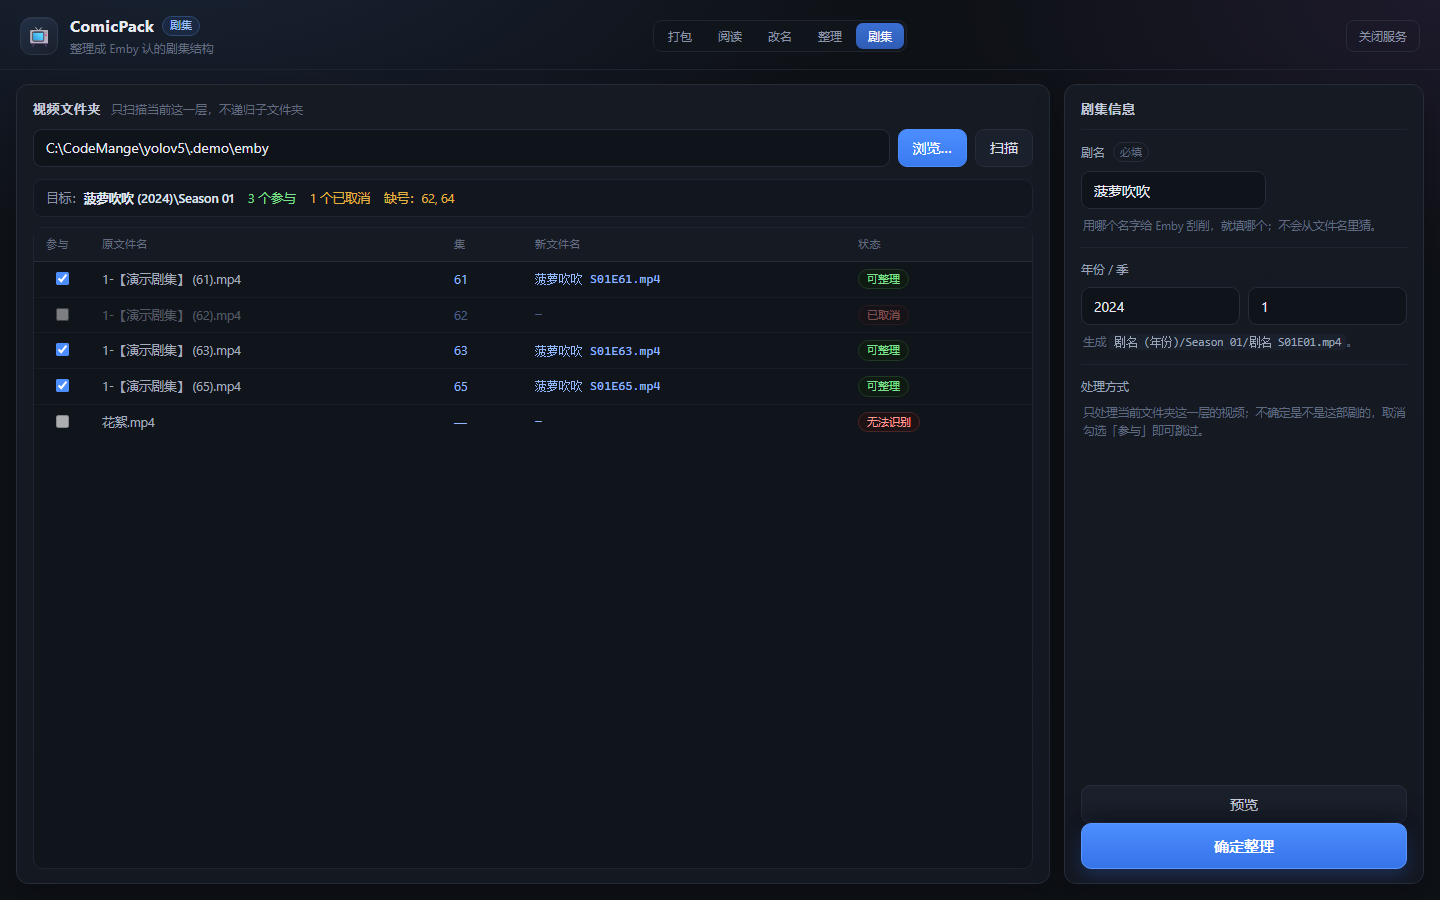
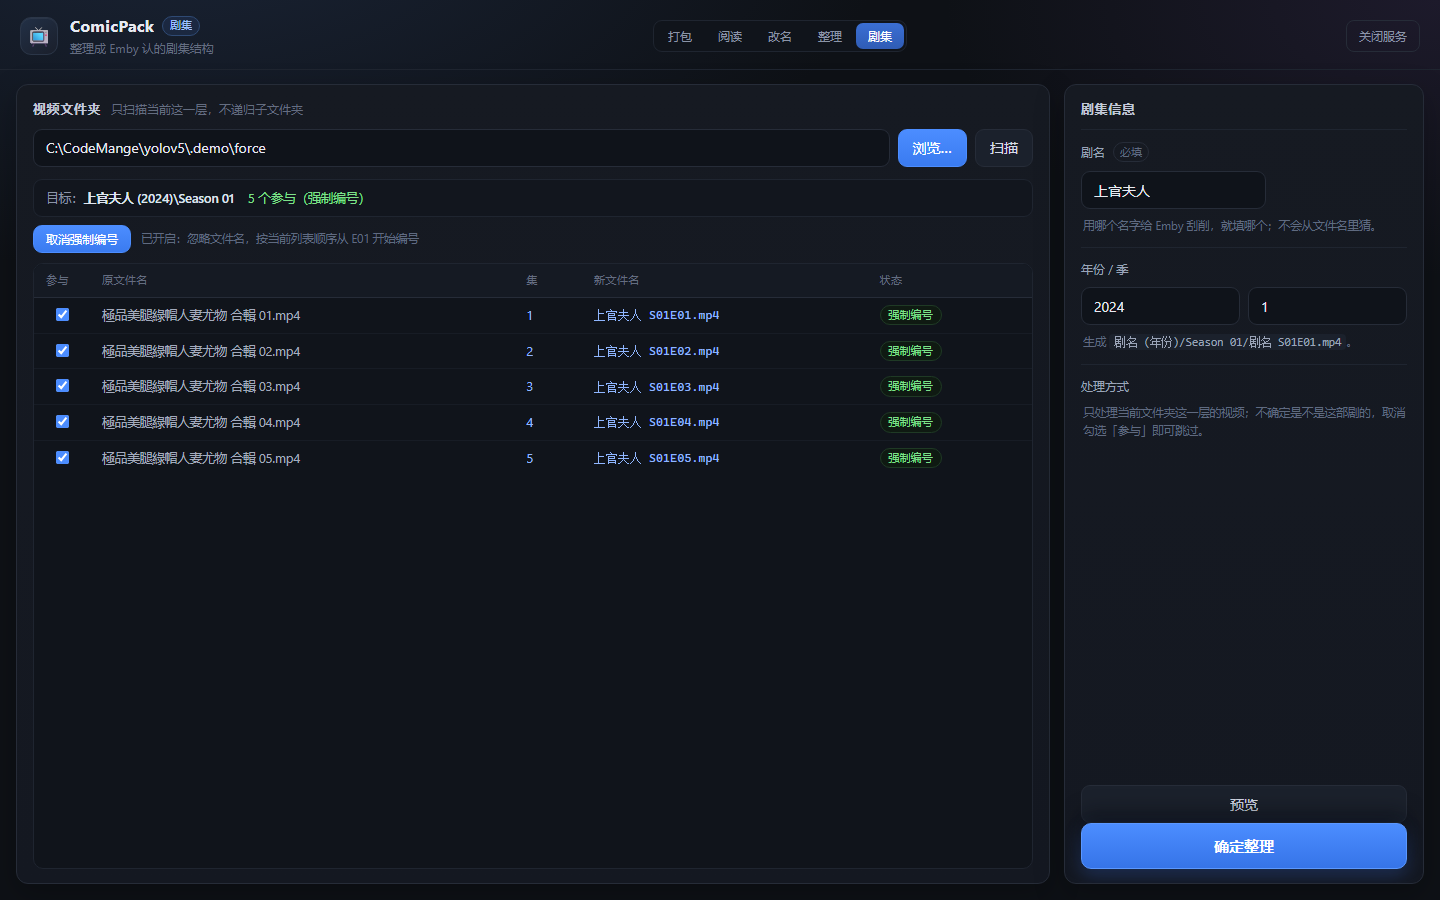
Emby page: force numbering by list order when the default rules fail
- emby.build accepts plan.force: every non-excluded row is included and gets
  SxxE01.. in the current (natural-sorted) order, ignoring parsed episode
  numbers; exclusion still applies and compacts the numbering
- /emby gains a "全选并强制编号" toggle: it selects all rows (including the
  ones whose names can't be parsed), enables their checkboxes and shows
  "将按顺序编号"; clicking again turns it off
- preview/apply carry the force flag, and the table's episode column shows the
  forced numbers; missing-number detection is skipped in force mode
- tests: force ordering, force + exclusion compaction, force apply
- README screenshot updated

diff --git a/static/emby.js b/static/emby.js
@@ -9,6 +9,7 @@ const state = {
   scan: null,
   preview: null,
   excluded: new Set(),
+  force: false,
   running: false,
 };
 
@@ -66,8 +67,10 @@ async function scan() {
     state.scan = r;
     state.preview = null;
     state.excluded = new Set();
+    state.force = false;
     $("#path").value = r.root;
     localStorage.setItem("comicpack.emby.path", r.root);
+    updateForceUI();
     updateSummary();
     $("#btn-preview").disabled = !r.totals.ok;
     $("#btn-apply").disabled = true;
@@ -100,15 +103,19 @@ function renderRows(rows, previewRows) {
   const frag = document.createDocumentFragment();
   rows.forEach((r) => {
     const tr = document.createElement("tr");
+    const pv = byId[r.id] || null;
     if (state.excluded.has(r.id)) tr.classList.add("excluded");
 
     const pick = document.createElement("td");
     pick.className = "rt-pick";
     const cb = document.createElement("input");
     cb.type = "checkbox";
-    cb.checked = r.status === "ok" && !state.excluded.has(r.id);
-    cb.disabled = r.status !== "ok";
-    cb.title = cb.disabled ? "识别不出集数，无法参与" : "取消勾选就跳过这个文件";
+    const canPick = state.force || r.status === "ok";
+    cb.checked = canPick && !state.excluded.has(r.id);
+    cb.disabled = !canPick;
+    cb.title = !canPick
+      ? "识别不出集数；点上方「全选并强制编号」可以按顺序强行编号"
+      : "取消勾选就跳过这个文件";
     cb.addEventListener("change", () => {
       if (cb.checked) state.excluded.delete(r.id);
       else state.excluded.add(r.id);
@@ -126,21 +133,32 @@ function renderRows(rows, previewRows) {
 
     const se = document.createElement("td");
     se.className = "rt-se";
-    se.textContent = r.episode != null ? String(r.episode) : "—";
+    const epi = pv && pv.episode != null ? pv.episode : r.episode;
+    se.textContent = epi != null ? String(epi) : "—";
 
     const neu = document.createElement("td");
     neu.className = "rt-new";
-    const p = byId[r.id];
-    neu.textContent = p ? p.new_name || "—" : "—";
+    neu.textContent = pv ? pv.new_name || "—" : "—";
 
     const st = document.createElement("td");
     const badge = document.createElement("span");
-    const status = p ? p.status : r.status;
-    badge.className = "badge " + status;
-    if (status === "ok") badge.textContent = p ? "可整理" : "识别到";
-    else if (state.excluded.has(r.id)) badge.textContent = "已取消";
-    else badge.textContent = "无法识别";
-    const reason = p ? p.reason : r.reason;
+    if (state.excluded.has(r.id)) {
+      badge.className = "badge skip";
+      badge.textContent = "已取消";
+    } else if (pv && pv.status === "ok") {
+      badge.className = "badge ok";
+      badge.textContent = pv.forced ? "强制编号" : "可整理";
+    } else if (state.force) {
+      badge.className = "badge ok";
+      badge.textContent = "将按顺序编号";
+    } else if (r.status === "ok") {
+      badge.className = "badge ok";
+      badge.textContent = "识别到";
+    } else {
+      badge.className = "badge skip";
+      badge.textContent = "无法识别";
+    }
+    const reason = pv ? pv.reason : r.reason;
     if (reason) badge.title = reason;
     st.appendChild(badge);
 
@@ -155,13 +173,32 @@ function updateSummary() {
   const scan = state.scan;
   if (!scan) return;
   const excluded = state.excluded.size;
-  const joined = Math.max(0, scan.totals.ok - excluded);
+  const joined = Math.max(0, scan.totals.videos - excluded);
+  if (state.force) {
+    $("#summary").innerHTML =
+      `<span><b>${scan.totals.videos}</b> 个视频</span>` +
+      `<span class="ok-text">强制编号：${joined} 个按当前顺序编号</span>` +
+      (excluded ? `<span class="warn">${excluded} 个已取消</span>` : "");
+    $("#btn-preview").disabled = joined === 0;
+    return;
+  }
+  const parsed = scan.totals.ok - excluded;
   $("#summary").innerHTML =
     `<span><b>${scan.totals.videos}</b> 个视频</span>` +
-    `<span class="ok-text">${joined} 个参与</span>` +
+    `<span class="ok-text">${Math.max(0, parsed)} 个参与</span>` +
     (excluded ? `<span class="warn">${excluded} 个已取消</span>` : "") +
     (scan.totals.skip ? `<span class="bad">${scan.totals.skip} 个无法识别</span>` : "");
-  $("#btn-preview").disabled = joined === 0;
+  $("#btn-preview").disabled = parsed <= 0;
+}
+
+/* 强制编号按钮的文案与提示 */
+function updateForceUI() {
+  const btn = $("#btn-force");
+  btn.textContent = state.force ? "取消强制编号" : "全选并强制编号";
+  btn.classList.toggle("btn-primary", state.force);
+  $("#force-hint").textContent = state.force
+    ? "已开启：忽略文件名，按当前列表顺序从 E01 开始编号"
+    : "默认规则认不出集数时，点左边按钮按顺序编号";
 }
 
 /* ---------------- 预览与执行 ---------------- */
@@ -171,6 +208,7 @@ function payload() {
     year: $("#year").value.trim(),
     season: $("#season").value.trim() || "1",
     exclude: [...state.excluded],
+    force: state.force,
   };
 }
 
@@ -183,7 +221,7 @@ async function preview() {
     state.preview = r;
     $("#summary").innerHTML =
       `<span>目标：<b>${escapeHtml(r.show_dir)}\\${escapeHtml(r.season_dir)}</b></span>` +
-      `<span class="ok-text">${r.totals.ok} 个参与</span>` +
+      `<span class="ok-text">${r.totals.ok} 个参与${r.force ? "（强制编号）" : ""}</span>` +
       (r.totals.excluded ? `<span class="warn">${r.totals.excluded} 个已取消</span>` : "") +
       (r.missing.length ? `<span class="warn">缺号：${r.missing.join(", ")}</span>` : "");
     renderRows(state.scan.rows, r.rows);
@@ -247,6 +285,16 @@ $("#btn-browse").addEventListener("click", browse);
 $("#btn-scan").addEventListener("click", scan);
 $("#btn-preview").addEventListener("click", preview);
 $("#btn-apply").addEventListener("click", applyPlan);
+$("#btn-force").addEventListener("click", () => {
+  if (!state.scan) { toast("请先扫描文件夹"); return; }
+  state.force = !state.force;
+  if (state.force) state.excluded.clear();
+  state.preview = null;
+  $("#btn-apply").disabled = true;
+  updateForceUI();
+  updateSummary();
+  renderRows(state.scan.rows, null);
+});
 
 $("#path").addEventListener("keydown", (e) => { if (e.key === "Enter") scan(); });
 
@@ -266,6 +314,7 @@ $("#btn-quit").addEventListener("click", async () => {
 
 /* ---------------- 初始化 ---------------- */
 (function init() {
+  updateForceUI();
   renderRows([], null);
   const saved = localStorage.getItem("comicpack.emby.path");
   const fromUrl = new URLSearchParams(location.search).get("path");

diff --git a/static/emby.html b/static/emby.html
@@ -45,6 +45,13 @@
 
     <div id="summary" class="summary">尚未选择文件夹</div>
 
+    <div class="list-tools">
+      <button id="btn-force" class="btn btn-sm" title="识别失败时，按当前列表顺序强行编号">
+        全选并强制编号
+      </button>
+      <span id="force-hint" class="tip"></span>
+    </div>
+
     <div class="list-wrap">
       <table id="table" class="rename-table hidden">
         <thead>

diff --git a/static/style.css b/static/style.css
@@ -723,6 +723,15 @@ input[type="text"]::placeholder { color: #5b6478; }
   font-size: 12.5px;
   outline: none;
 }
+
+.list-tools {
+  display: flex;
+  align-items: center;
+  gap: 10px;
+  margin: -2px 0 10px;
+}
+
+.list-tools .tip { margin: 0; flex: 1 1 auto; }
 .rt-new {
   color: #8fb6ff;
   font-family: "Cascadia Mono", Consolas, monospace;

diff --git a/tests/test_emby.py b/tests/test_emby.py
@@ -109,6 +109,45 @@ class EmbyTest(unittest.TestCase):
             # 被取消的那个留在原处
             self.assertTrue(os.path.isfile(os.path.join(tmp, "剧名 - 02.mp4")))
 
+    def test_force_numbers_by_current_order(self):
+        """默认规则认不出集数时，强制模式按当前顺序 1..N 编号。"""
+        with workdir() as tmp:
+            for name in ("片段 02.mp4", "片段 01.mp4", "片段 10.mp4"):
+                touch(os.path.join(tmp, name))
+            # 默认规则：全部无法识别
+            normal = emby.build(tmp, self.payload())
+            self.assertEqual(normal["totals"]["ok"], 0)
+
+            p = emby.build(tmp, self.payload(force=True))
+            self.assertTrue(p["ok"], p)
+            self.assertTrue(p["force"])
+            names = [r["new_name"] for r in p["rows"]]
+            self.assertEqual(names, ["测试剧 S01E01.mp4", "测试剧 S01E02.mp4",
+                                     "测试剧 S01E03.mp4"])
+            self.assertTrue(all(r["forced"] for r in p["rows"]))
+            self.assertEqual(p["missing"], [])
+
+    def test_force_with_exclusion_compacts_numbers(self):
+        with workdir() as tmp:
+            for name in ("a.mp4", "b.mp4", "c.mp4"):
+                touch(os.path.join(tmp, name))
+            p = emby.build(tmp, self.payload(force=True, exclude=["b.mp4"]))
+            self.assertTrue(p["ok"], p)
+            rows = [r for r in p["rows"] if r["status"] == "ok"]
+            self.assertEqual([r["new_name"] for r in rows],
+                             ["测试剧 S01E01.mp4", "测试剧 S01E02.mp4"])
+            self.assertEqual(rows[1]["name"], "c.mp4")
+
+    def test_force_apply_moves_in_order(self):
+        with workdir() as tmp:
+            for name in ("片段 02.mp4", "片段 01.mp4"):
+                touch(os.path.join(tmp, name))
+            res = emby.apply(tmp, self.payload(force=True))
+            self.assertTrue(res["ok"], res)
+            target = os.path.join(tmp, "测试剧 (2023)", "Season 01")
+            self.assertTrue(os.path.isfile(os.path.join(target, "测试剧 S01E01.mp4")))
+            self.assertTrue(os.path.isfile(os.path.join(target, "测试剧 S01E02.mp4")))
+
     def test_invalid_inputs(self):
         with workdir() as tmp:
             self._tree(tmp)

diff --git a/emby.py b/emby.py
@@ -140,27 +140,38 @@ def build(root: str, payload: dict) -> dict:
     if not isinstance(raw_exclude, list):
         raw_exclude = []
     excluded = {str(x) for x in raw_exclude}
+    force = bool(payload.get("force"))
 
     taken = set()
     rows = []
+    seq = 0
     for row in info["rows"]:
-        if row["status"] != "ok":
-            rows.append(dict(row, new_name="", reason=row["reason"]))
-            continue
         if row["id"] in excluded:
             rows.append(dict(row, new_name="", status="skip",
                              reason="已取消：不参与本次整理"))
             continue
-        tag = f"S{season:02d}E{row['episode']:02d}"
-        if row.get("episode2"):
-            tag += f"-E{row['episode2']:02d}"
+        if force:
+            # 强制模式：不看文件名，按当前显示顺序从 1 开始编号
+            seq += 1
+            episode, episode2 = seq, None
+        else:
+            if row["status"] != "ok":
+                rows.append(dict(row, new_name="", reason=row["reason"]))
+                continue
+            episode, episode2 = row["episode"], row.get("episode2")
+
+        tag = f"S{season:02d}E{episode:02d}"
+        if episode2:
+            tag += f"-E{episode2:02d}"
         new_name = _unique(f"{show} {tag}{row['ext']}", taken)
-        rows.append(dict(row, new_name=new_name))
+        rows.append(dict(row, new_name=new_name, episode=episode,
+                         episode2=episode2, forced=force, status="ok",
+                         reason=""))
 
     included = [r for r in rows if r["status"] == "ok"]
     episodes = [r["episode"] for r in included]
     missing = []
-    if episodes:
+    if episodes and not force:
         missing = [n for n in range(min(episodes), max(episodes) + 1)
                    if n not in set(episodes)]
 
@@ -170,6 +181,7 @@ def build(root: str, payload: dict) -> dict:
         "show": show,
         "year": year,
         "season": season,
+        "force": force,
         "show_dir": show_dir,
         "season_dir": season_dir_name,
         "target_dir": target_dir,

diff --git a/README.md b/README.md
@@ -170,9 +170,11 @@
 
 1. 选文件夹（**只扫描当前这一层**，不递归子文件夹，自动匹配同名字幕）
 2. 右边填 **剧名**（必填）、年份（可空）、季（默认 1）
-3. 不确定是不是这部剧的，把那一行的「参与」取消勾选，就不会被移动
-4. 「预览」→ 显示目标目录、每个文件的新名字、**缺号**
-5. 「确定整理」→ 生成：
+3. 文件名认不出集数时（比如结尾只有 ` 01`、` 02`，或带 `24V` 这类后缀），
+   点「**全选并强制编号**」：忽略文件名，按当前列表顺序从 `E01` 开始编号
+4. 不确定是不是这部剧的，把那一行的「参与」取消勾选，就不会被移动
+5. 「预览」→ 显示目标目录、每个文件的新名字、**缺号**
+6. 「确定整理」→ 生成：
 
 ```
 剧名 (年份)/Season 01/剧名 S01E01.mp4
@@ -182,6 +184,7 @@
 | 规则 | 说明 |
 | --- | --- |
 | 集数识别 | `S01E01`、`第01集`、`[01]`、`(01)`、`剧名 - 01`、纯数字 `01.mp4` |
+| 强制编号 | 默认规则认不出时，点「全选并强制编号」按当前顺序编号（可再点一次取消） |
 | 剧名 | 只认你输入的；文件名里的剧名不参与 |
 | 只扫一层 | 不递归：上次生成的 `剧名/Season 01/` 不会被再次扫进来 |
 | 取消参与 | 每行一个勾选，取消后该视频留在原处，不移动、不改名 |
@@ -243,7 +246,7 @@ docs/           界面截图
 | POST | `/api/organize/plan` | 预演整理计划（新建/移动/改名/删除），不落盘 |
 | POST | `/api/organize/apply` | 执行整理：同盘移动/改名，移动失败整单回滚 |
 | POST | `/api/emby/scan` | 剧集扫描：**只扫当前一层**（不递归），解析 `S01E01` / `第1集` / `[01]` / `(01)` / `剧名 - 01` |
-| POST | `/api/emby/build` | 预演 Emby 结构：剧名/年份/季由用户填，`exclude` 指定取消参与的文件，返回目标目录、新名字、缺号 |
+| POST | `/api/emby/build` | 预演 Emby 结构：剧名/年份/季由用户填，`exclude` 指定取消参与的文件，`force` 按顺序强制编号，返回目标目录、新名字、缺号 |
 | POST | `/api/emby/apply` | 建 `剧名 (年份)/Season 01/` 并移动/改名（字幕跟随，失败回滚，跳过被取消的文件） |
 | POST | `/api/shutdown` | 关闭服务 |
 
@@ -258,7 +261,7 @@ python -m unittest discover -s tests -v
 封面墙（递归扫描 / 同名封面 / 包内首图 / 默认封面 / 同封面合并成一张卡）、
 章节列表与序号、选择弹窗的目录列举（盘符 / 文件夹 / cbz 过滤）、视频改名解析（各站命名 / 纯数字 / 连播）、
 改名执行与冲突跳过（含交换名字、保留扩展名、整体回滚）、视频整理（扫描 / 保留目录 / 未归类进「其他」/ 重名加序号 / 移动失败回滚 / 删除失败保留）、
-Emby 剧集（递归扫描 / 括号集数 / 用户填剧名 / 缺号 / 建 Season 目录 / 失败回滚）、
+Emby 剧集（只扫一层 / 括号集数 / 用户填剧名 / 取消单个 / 强制按顺序编号 / 缺号 / 建 Season 目录 / 失败回滚）、
 坏包/空包、阅读会话上限，以及 HTTP 层的打开 / 取页 / 越界 404 /
 封面墙扫描与封面取图 / 递归打包 / 改名 / 整理 / 剧集。
 
